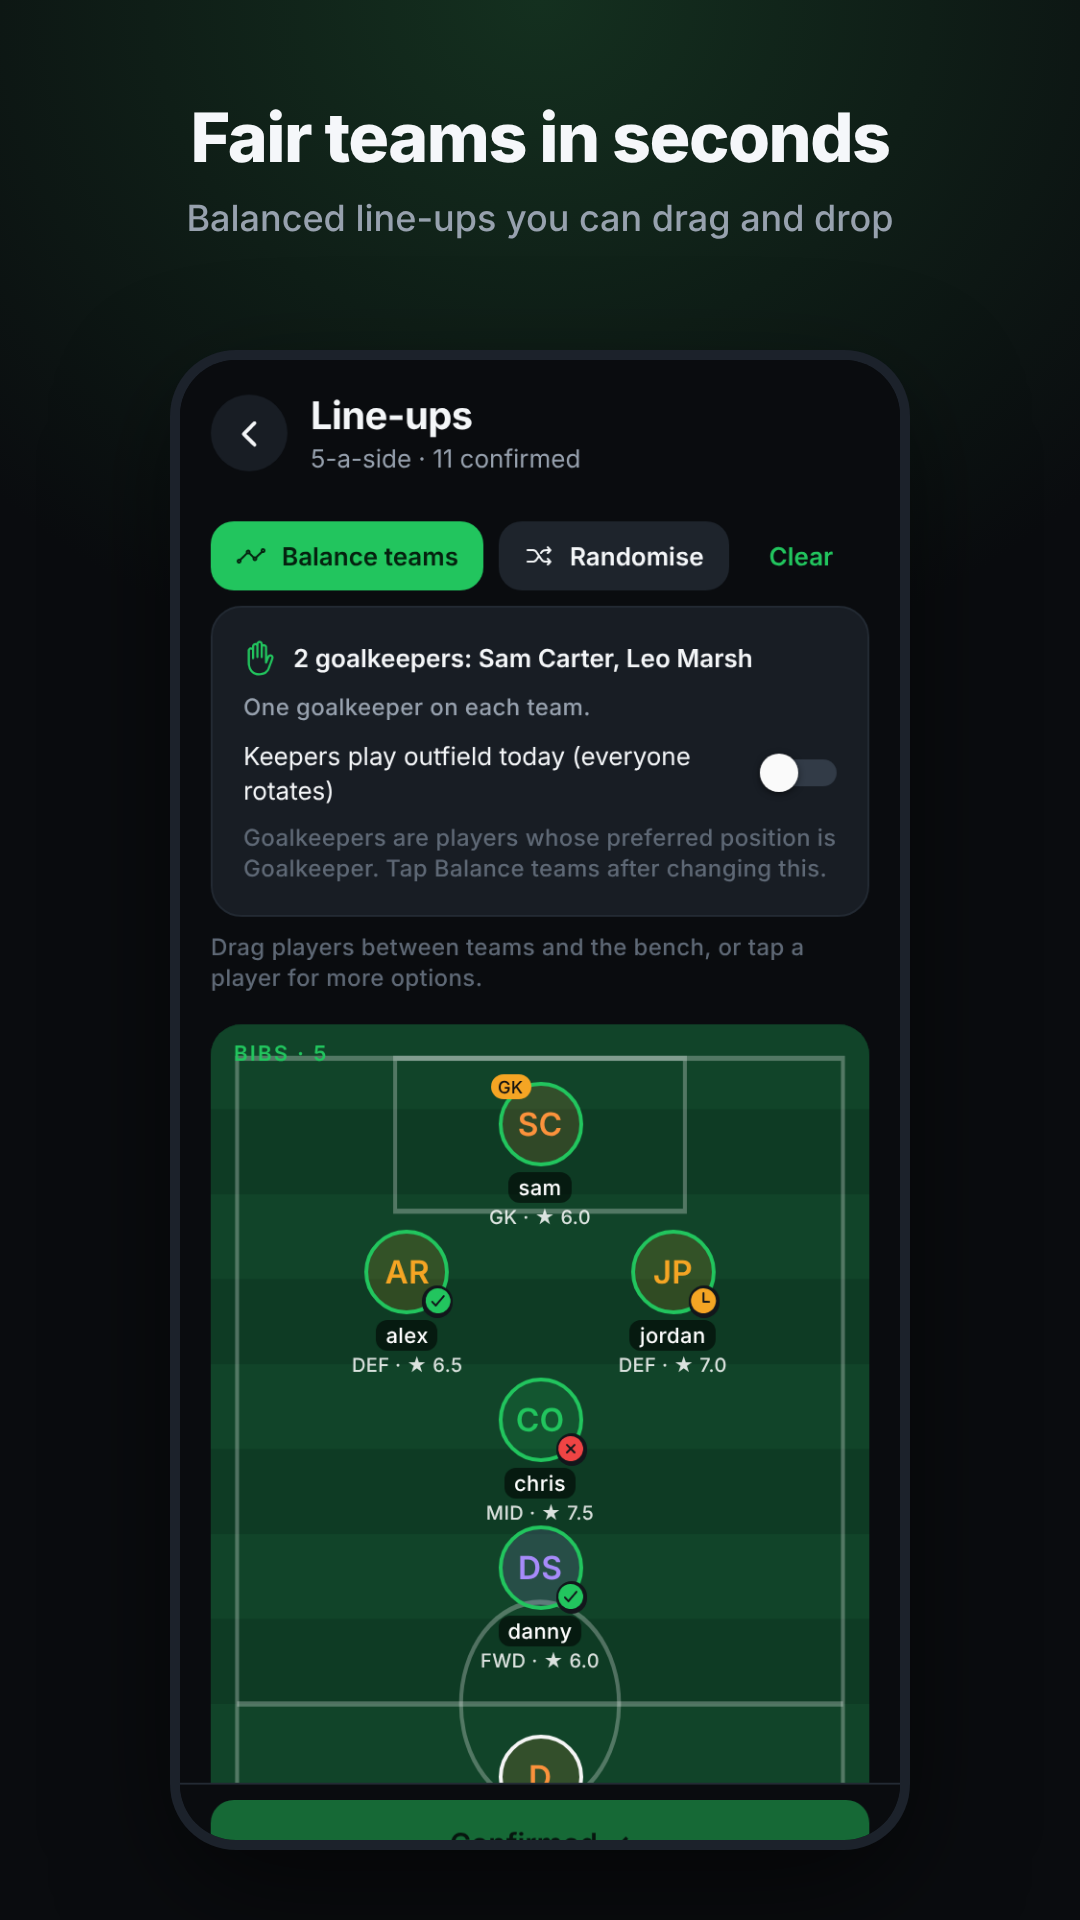
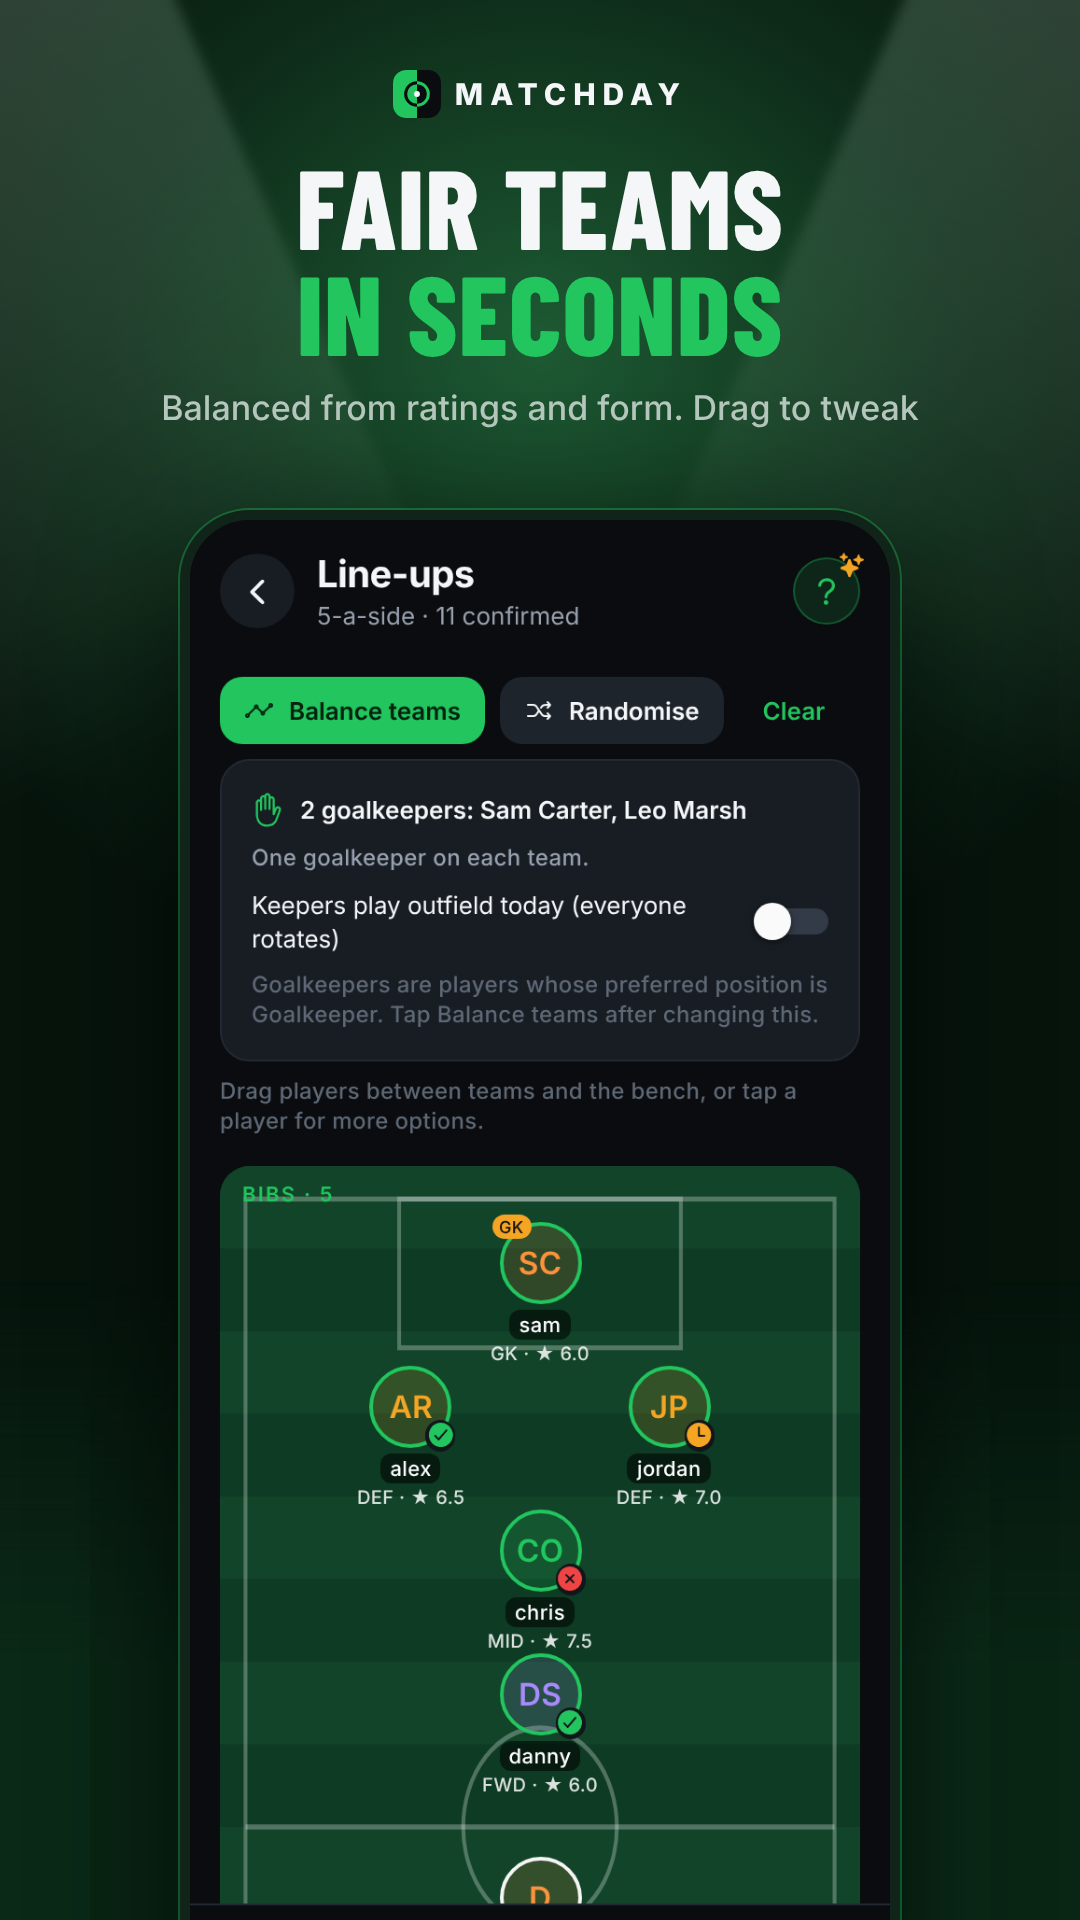
Store listing in the new look; Matchday hero buttons no longer nested
- Play Store screenshots and feature graphic redone with the floodlit
  pitch, scoreboard headlines and the MATCHDAY mark. Home is captured in
  Matchday mode; the group shot shows the Dream Team.
- MatchdayHero: only the scoreboard is tappable, so the Teams / Open game
  buttons are no longer inside another button (invalid on web).

Claude-Session: https://claude.ai/code/session_01JbTvMoxBdAst7k7JPvEv2w

diff --git a/scripts/generate-store-graphics.js b/scripts/generate-store-graphics.js
@@ -9,15 +9,28 @@ const mark = (s = 1, x = 0, y = 0) => `<g transform="translate(${x} ${y}) scale(
   <circle cx="512" cy="512" r="62" fill="${W}"/></g>`;
 const icon = `<svg xmlns="http://www.w3.org/2000/svg" width="512" height="512" viewBox="0 0 1024 1024">
   <rect width="1024" height="1024" fill="${D}"/><rect width="512" height="1024" fill="${G}"/>${mark()}</svg>`;
-const feature = `<html><head><link href="https://fonts.googleapis.com/css2?family=Inter:wght@500;800&display=swap" rel="stylesheet"></head>
-<body style="margin:0;width:1024px;height:500px;background:${D};font-family:Inter,Arial,sans-serif;overflow:hidden">
-<div style="position:absolute;left:0;top:0;width:500px;height:500px;overflow:hidden">
-  <svg width="500" height="500" viewBox="0 0 1024 1024"><rect width="1024" height="1024" fill="${D}"/><rect width="512" height="1024" fill="${G}"/>${mark()}</svg>
-</div>
-<div style="position:absolute;left:560px;top:150px;color:${W}">
-  <div style="font-size:72px;font-weight:800;letter-spacing:-2px">MATCHDAY</div>
-  <div style="font-size:30px;font-weight:500;color:#97A1AE;margin-top:10px;line-height:1.3">Organise your football.<br>Line-ups, stats &amp; payments.</div>
-  <div style="width:80px;height:6px;background:${G};border-radius:3px;margin-top:28px"></div>
+const fs = require('fs');
+const ttf = (f) => fs.readFileSync(path.join(__dirname, '..', 'node_modules/@expo-google-fonts', f)).toString('base64');
+const FONTS = `@font-face{font-family:Score;font-weight:800;src:url(data:font/ttf;base64,${ttf('barlow-condensed/800ExtraBold/BarlowCondensed_800ExtraBold.ttf')})}
+@font-face{font-family:Inter;font-weight:500;src:url(data:font/ttf;base64,${ttf('inter/500Medium/Inter_500Medium.ttf')})}
+@font-face{font-family:Inter;font-weight:800;src:url(data:font/ttf;base64,${ttf('inter/800ExtraBold/Inter_800ExtraBold.ttf')})}`;
+// Feature graphic in the MATCHDAY look: floodlit pitch, scoreboard headline, the mark.
+const feature = `<html><head><style>${FONTS}
+  .beam{position:absolute;top:-60px;width:300px;height:520px;background:linear-gradient(180deg,rgba(220,255,230,.22),rgba(34,197,94,0) 75%);filter:blur(4px)}
+</style></head>
+<body style="margin:0;width:1024px;height:500px;background:#06140C;font-family:Inter,sans-serif;overflow:hidden;position:relative">
+<div style="position:absolute;inset:0;background:radial-gradient(70% 70% at 50% 10%,#1d5a33 0%,#0d2a18 50%,#06140C 85%)"></div>
+<div class="beam" style="left:-60px;transform:rotate(-28deg)"></div>
+<div class="beam" style="right:-60px;transform:rotate(28deg)"></div>
+<div style="position:absolute;left:0;right:0;bottom:0;height:190px;background:repeating-linear-gradient(90deg,#0f3b21 0 64px,#0c331c 64px 128px);opacity:.6;-webkit-mask-image:linear-gradient(180deg,transparent,#000 70%)"></div>
+<svg style="position:absolute;left:0;bottom:0" width="1024" height="190"><line x1="0" y1="150" x2="1024" y2="150" stroke="rgba(255,255,255,.12)" stroke-width="2"/><ellipse cx="512" cy="150" rx="150" ry="26" fill="none" stroke="rgba(255,255,255,.12)" stroke-width="2"/></svg>
+<div style="position:absolute;left:0;right:0;top:110px;text-align:center">
+  <div style="display:inline-flex;align-items:center;gap:12px">
+    <svg width="44" height="44" viewBox="0 0 1024 1024" style="border-radius:11px"><rect width="1024" height="1024" fill="${D}"/><rect width="512" height="1024" fill="${G}"/>${mark()}</svg>
+    <div style="color:${W};font-weight:800;letter-spacing:7px;font-size:26px">MATCHDAY</div>
+  </div>
+  <div style="font-family:Score;font-weight:800;font-size:84px;line-height:.95;white-space:nowrap;color:${W};margin-top:26px;letter-spacing:1px">ORGANISE. PLAY. <span style="color:${G}">SETTLE UP.</span></div>
+  <div style="font-size:26px;font-weight:500;color:#B6C7BD;margin-top:18px">Invites, fair teams, stats and payments for your weekly game</div>
 </div></body></html>`;
 (async () => {
   const b = await chromium.launch();
@@ -25,7 +38,7 @@ const feature = `<html><head><link href="https://fonts.googleapis.com/css2?famil
   await p.setContent(`<body style="margin:0">${icon}</body>`);
   await p.screenshot({ path: out('play-icon-512.png'), clip: { x: 0, y: 0, width: 512, height: 512 } });
   p = await b.newPage({ viewport: { width: 1024, height: 500 } });
-  await p.setContent(feature); await p.waitForTimeout(1500);
+  await p.setContent(feature); await p.evaluate(() => document.fonts.ready); await p.waitForTimeout(300);
   await p.screenshot({ path: out('feature-graphic-1024x500.png'), clip: { x: 0, y: 0, width: 1024, height: 500 } });
   await b.close();
 })();

diff --git a/src/features/MatchdayHero.tsx b/src/features/MatchdayHero.tsx
@@ -65,16 +65,16 @@ export function MatchdayHero({ game, onPress, children }: { game: MatchdayGame; 
     : phase === 'live' ? `${game.name} is live, ${minutesIn} minutes in.` : `Full time at ${game.name}.`;
 
   return (
-    <Pressable onPress={onPress} disabled={!onPress} accessibilityRole={onPress ? 'button' : undefined} accessibilityLabel={label}
-      onLayout={(e) => setW(e.nativeEvent.layout.width)}
-      style={({ pressed }) => ({ borderRadius: radius.xl, overflow: 'hidden', backgroundColor: '#06140C', borderWidth: 1, borderColor: `${PITCH}55`,
-        transform: [{ scale: pressed ? 0.99 : 1 }] })}>
+    <View onLayout={(e) => setW(e.nativeEvent.layout.width)}
+      style={{ borderRadius: radius.xl, overflow: 'hidden', backgroundColor: '#06140C', borderWidth: 1, borderColor: `${PITCH}55` }}>
       {w > 0 && (
         <View style={{ position: 'absolute', top: 0, left: 0, right: 0 }}>
           <StadiumHero height={190} width={w} fadeTo="#06140C" ball={false} />
         </View>
       )}
-      <View style={{ padding: space.lg, gap: space.sm, minHeight: 190, justifyContent: 'flex-end' }}>
+      {/* only the scoreboard is tappable: buttons passed as children sit outside it (no button inside a button on web) */}
+      <Pressable onPress={onPress} disabled={!onPress} accessibilityRole={onPress ? 'button' : undefined} accessibilityLabel={label}
+        style={({ pressed }) => ({ padding: space.lg, paddingBottom: children ? space.sm : space.lg, gap: space.sm, minHeight: children ? 170 : 190, justifyContent: 'flex-end', opacity: pressed ? 0.92 : 1 })}>
         <View style={{ flexDirection: 'row', alignItems: 'center', gap: 6 }}>
           {phase === 'live' ? (
             <Animated.View style={{ width: 8, height: 8, borderRadius: 4, backgroundColor: '#EF4444', opacity: pulse.interpolate({ inputRange: [0, 1], outputRange: [1, 0.3] }) }} />
@@ -100,8 +100,8 @@ export function MatchdayHero({ game, onPress, children }: { game: MatchdayGame; 
         <Text variant="small" color="#B6C7BD" numberOfLines={1}>
           {kick}{place ? ` · ${place}` : ''}{game.max_attendance ? ` · ${game.confirmed ?? 0}/${game.max_attendance} in` : ''}
         </Text>
-        {!!children && <View style={{ marginTop: space.xs }}>{children}</View>}
-      </View>
-    </Pressable>
+      </Pressable>
+      {!!children && <View style={{ paddingHorizontal: space.lg, paddingBottom: space.lg, paddingTop: space.xs }}>{children}</View>}
+    </View>
   );
 }
